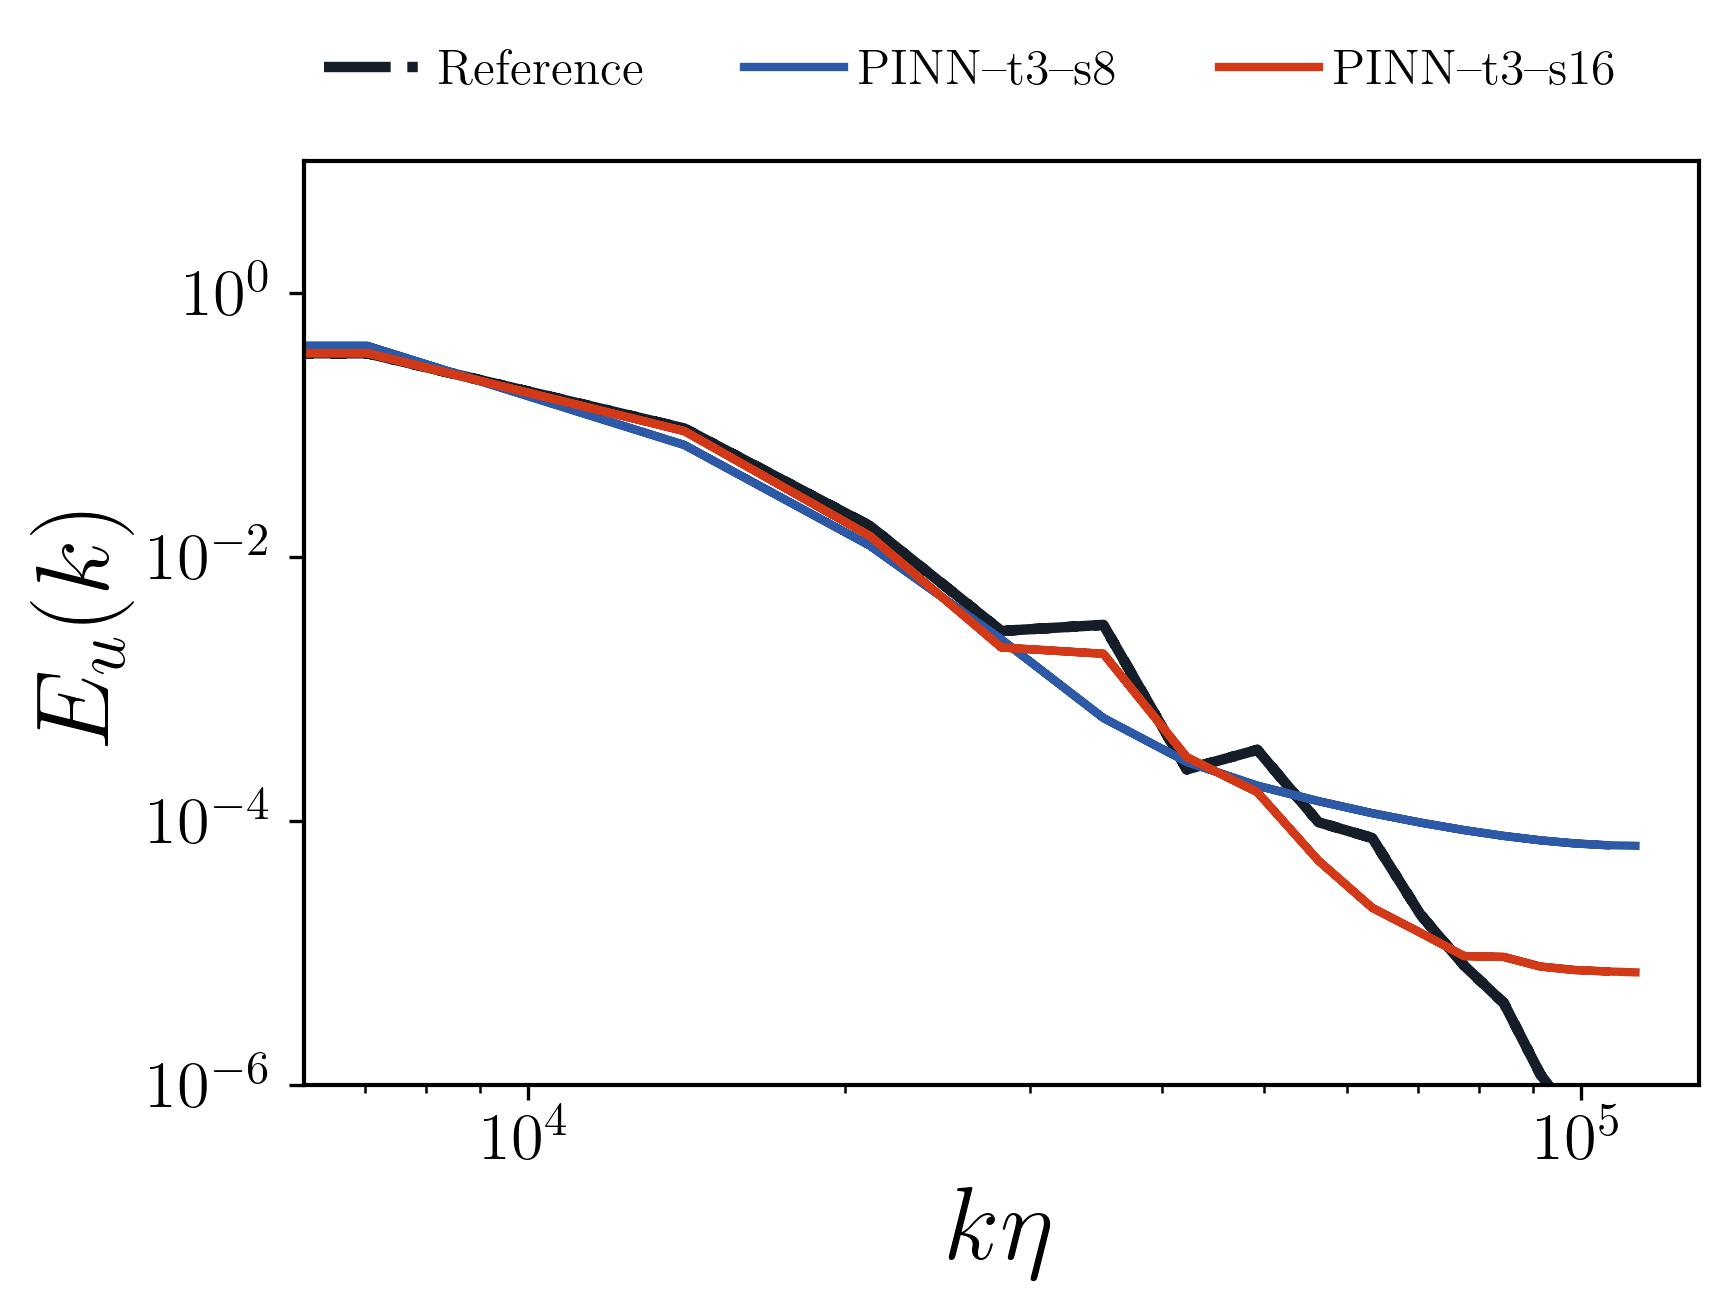
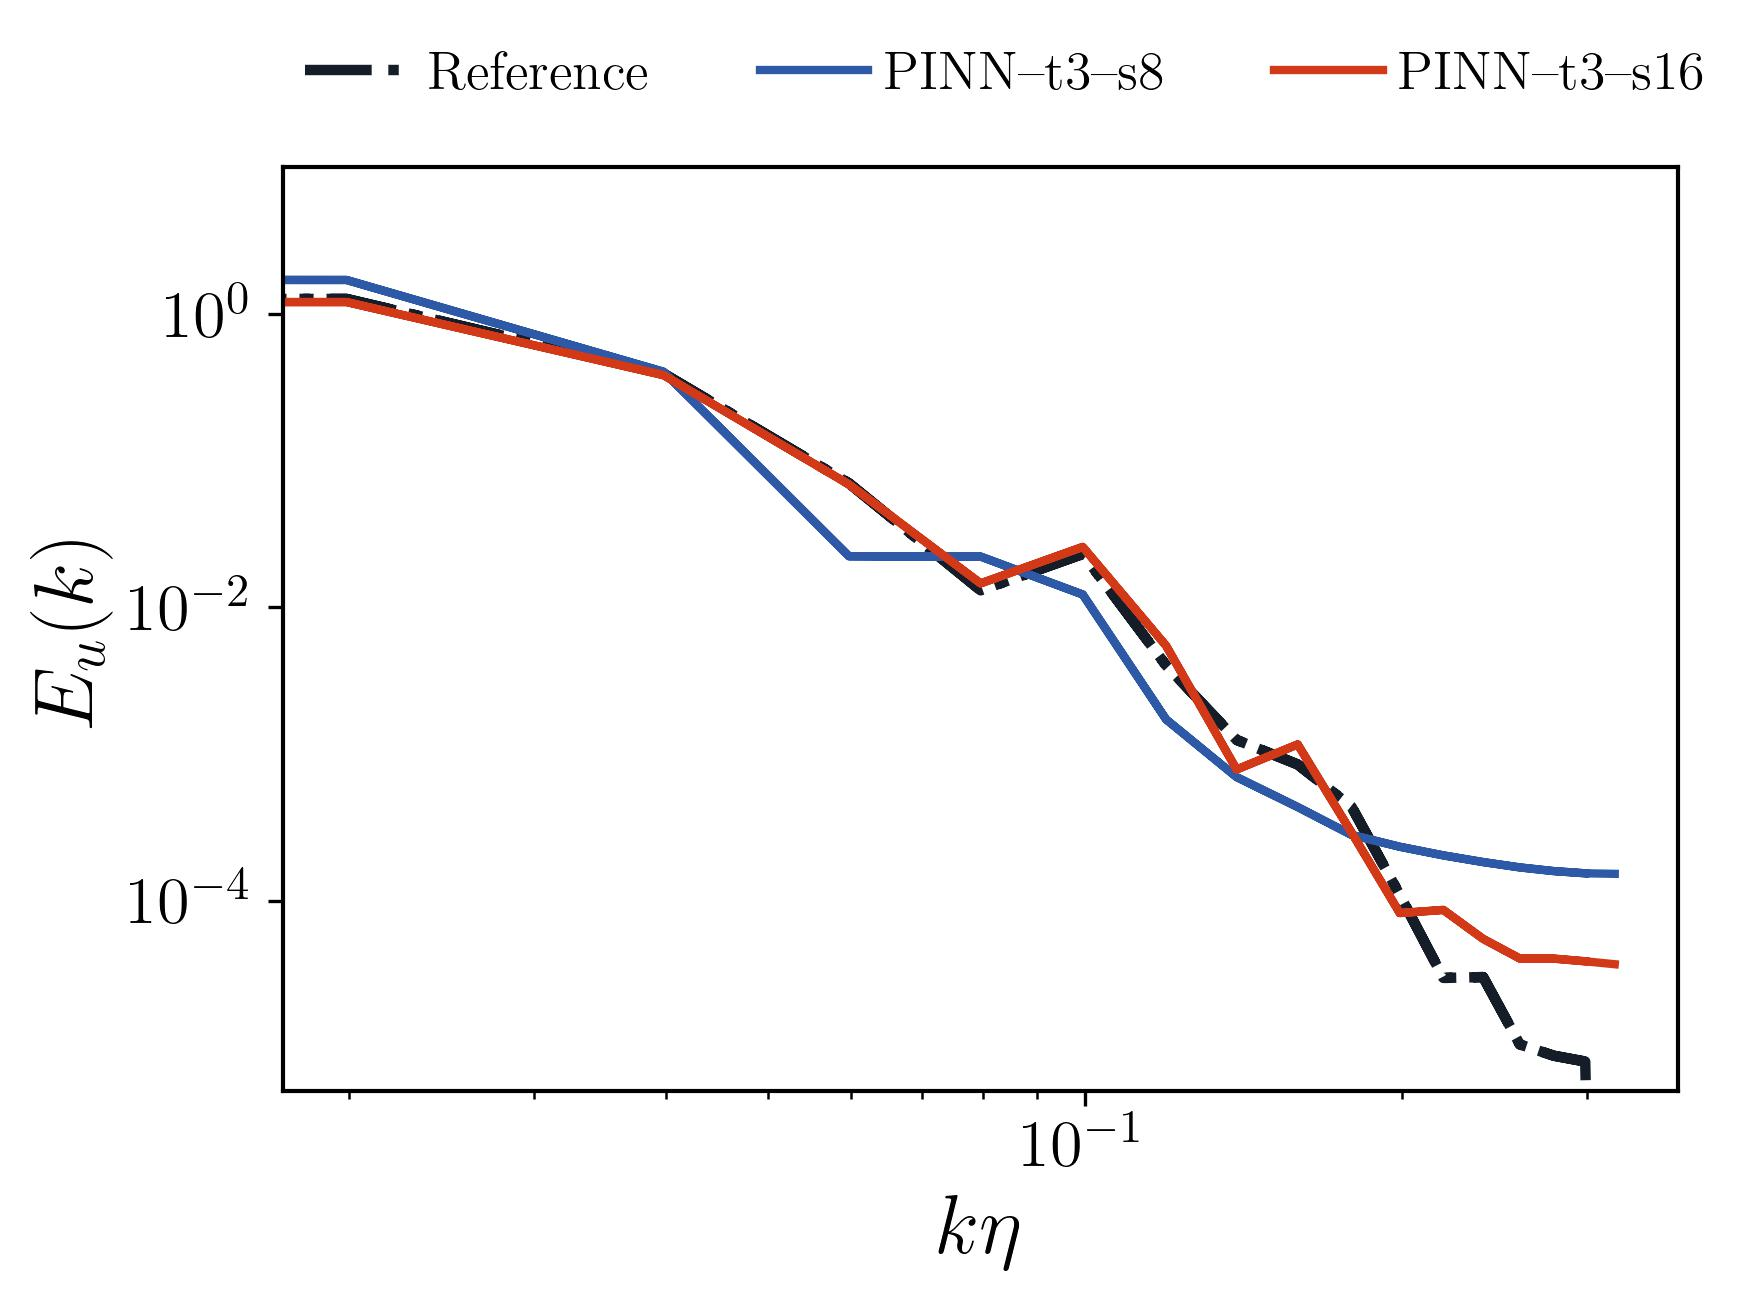
Update PSD

diff --git a/mi_channel/eval/b2_psd.py b/mi_channel/eval/b2_psd.py
@@ -13,12 +13,15 @@ from numpy import fft
 from utils.plot import colorplate as cc
 from utils import plt_rc_setup
 
-font_dict = {"fontsize":25,'weight':'bold'}
 
 def PSD_1D(data,Nx,Ny,Nz, nt,Lx,Ly,Lz, ):
     import numpy as np
-    
-    yp = 40
+    Re_Tau = 202 #Direct from simulation
+    Re = 5000 #Direct from simulation
+    nu = 1/Re #Kinematic viscosity
+    u_tau = Re_Tau*nu
+    eta = 1/Re**-0.75
+    yp = 30
     utype = 0
     # Streamwise velocity at wall
     data = data[utype]
@@ -28,7 +31,7 @@ def PSD_1D(data,Nx,Ny,Nz, nt,Lx,Ly,Lz, ):
     data    = data[:,yp,:,:]
     # Fluctuation
     # Wavenumber spacing
-    dkx = 2*np.pi/Lx
+    dkx = 2*np.pi/Lx / eta
     dky = 2*np.pi/Ly
     dkz = 2*np.pi/Lz
 
@@ -45,12 +48,8 @@ def PSD_1D(data,Nx,Ny,Nz, nt,Lx,Ly,Lz, ):
     ky = np.sqrt(ky**2)
     kz = np.sqrt(kz**2)
 
-    Re_Tau = 202 #Direct from simulation
-    Re = 5000 #Direct from simulation
-    nu = 1/Re #Kinematic viscosity
-    u_tau = Re_Tau*nu
-    eta = 1/Re**-0.75
-    Lambda_x =kx * eta 
+   
+    Lambda_x =kx * eta
     Lambda_y =ky
     Lambda_z =kz
     spectra = np.empty(shape=(Nx,nt))
@@ -78,6 +77,7 @@ plt.rc('font', size = 16)
 plt.rc('legend', fontsize = 16)              
 plt.rc('xtick', labelsize = 16)             
 plt.rc('ytick', labelsize = 16)
+font_dict = {"fontsize":20,'weight':'bold'}
 
 
 ref = np.load('../data/min_channel_sr.npz')
@@ -107,31 +107,6 @@ u_pred1 = pred1['up'][:3]
 
 pred2 = np.load('../results/res_pinn_t3_s8.npz')
 u_pred2 = pred2['up'][:3]
-
-uy = np.gradient(u[0], y, axis = 1, edge_order=2)
-uz = np.gradient(u[0], z, axis = 0, edge_order=1)
-
-vx = np.gradient(u[1], x, axis = 2, edge_order=2)
-vz = np.gradient(u[1], z, axis = 0, edge_order=1)
-
-wx = np.gradient(u[2], x, axis = 2, edge_order=2)
-wy = np.gradient(u[2], y, axis = 1, edge_order=2)
-
-omega_z = vx - uy
-
-uy_pred1 = np.gradient(u_pred1[0], y, axis = 1, edge_order=2)
-uz_pred1 = np.gradient(u_pred1[0], z, axis = 0, edge_order=1)
-
-vx_pred1 = np.gradient(u_pred1[1], x, axis = 2, edge_order=2)
-vz_pred1 = np.gradient(u_pred1[1], z, axis = 0, edge_order=1)
-
-wx_pred1 = np.gradient(u_pred1[2], x, axis = 2, edge_order=2)
-wy_pred1 = np.gradient(u_pred1[2], y, axis = 1, edge_order=2)
-
-omega_z_pred1 = vx_pred1 - uy_pred1
-
-x = xx[0]
-y = yy[0]
 
 t      = 5 
 yp     = 0
@@ -204,8 +179,8 @@ axs.loglog(
 
 axs.set_ylabel(r"$E_{u}(k)$",font_dict )
 axs.set_xlabel(r"$k\eta$", font_dict)   
-axs.set_ylim(10e-7, 10e0)
-axs.legend(frameon=False, ncol = 3, loc = (0.0, 1.05), fontsize=12)
+axs.set_ylim(5 * 10e-7, 10e0)
+axs.legend(frameon=False, ncol = 3, loc = (0.0, 1.05), fontsize=13)
 
 # axs.set_xticks([wvnumber.min(), 0.5 * wvnumber.max(), wvnumber.max()])
 
